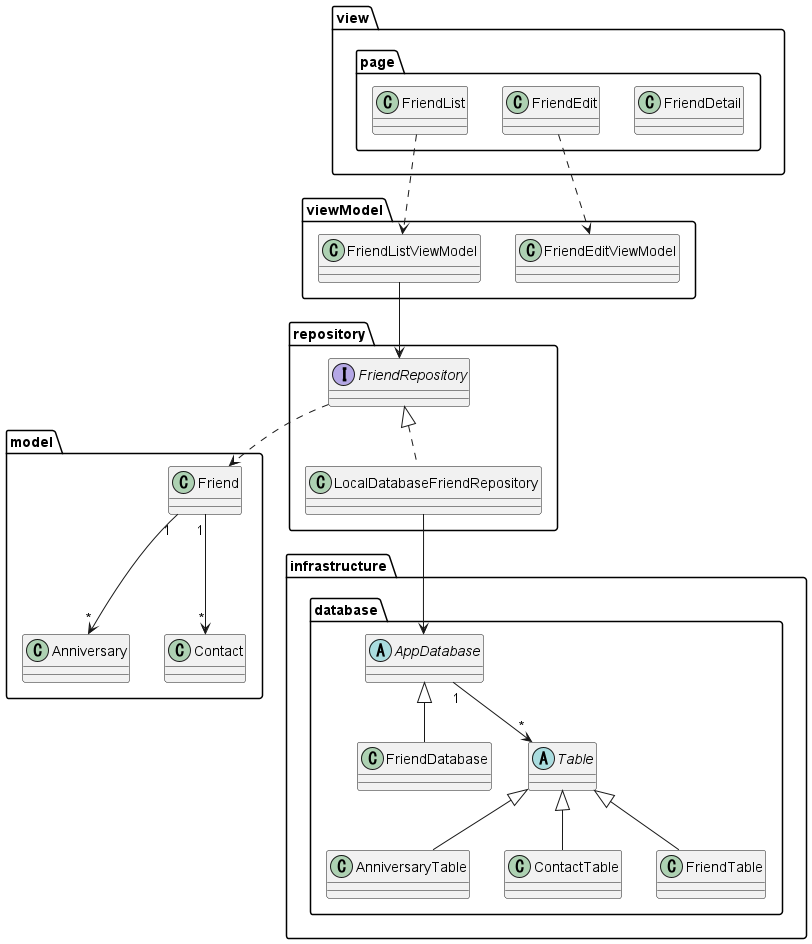
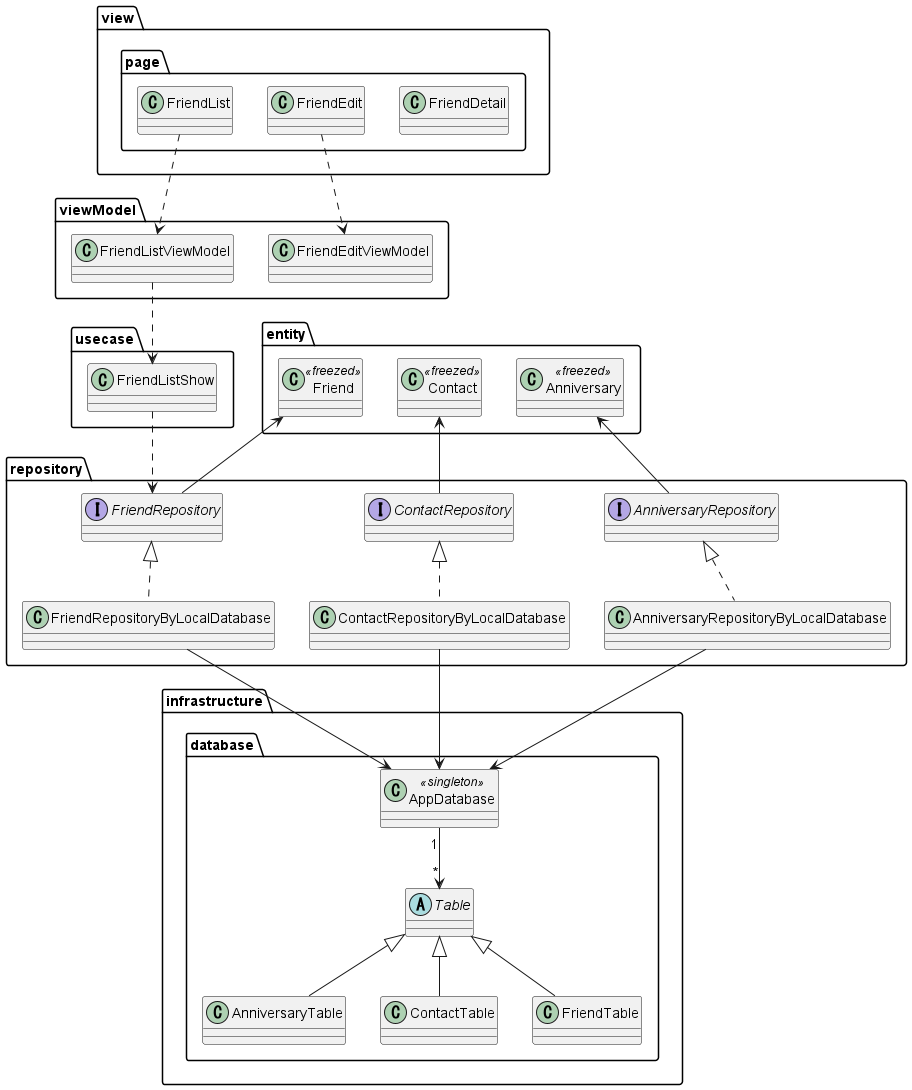
rename local database repository

Changed region(s): [[0.0, 0.0, 1.0, 1.0], [0.6158, 0.8294, 0.6466, 0.8602]]

diff --git a/lib/repository/friend_repository_by_local_database.dart b/lib/repository/friend_repository_by_local_database.dart
@@ -3,9 +3,7 @@ import 'package:friend_list/infrastructure/database/app_database.dart';
 import 'package:friend_list/entity/friend.dart';
 import 'package:friend_list/repository/friend_repository.dart';
 
-class LocalDatabaseFriendRepository implements FreindRepository {
-  LocalDatabaseFriendRepository();
-
+class FriendRepositoryByLocalDatbase implements FriendRepository {
   @override
   Future<void> deleteByID(int id) async {
     final db = await AppDatabase.instance.database;

diff --git a/lib/repository/anniversary_repository_by_local_database.dart b/lib/repository/anniversary_repository_by_local_database.dart
@@ -3,7 +3,7 @@ import 'package:friend_list/entity/anniversary.dart';
 import 'package:friend_list/infrastructure/database/app_database.dart';
 import 'package:friend_list/repository/anniversary_repository.dart';
 
-class LocalDatabaseAnniversaryRepository implements AnniversaryRepository {
+class AnniversaryRepositoryByLocalDatabase implements AnniversaryRepository {
   @override
   Future<void> deleteByID(int id) async {
     final db = await AppDatabase.instance.database;

diff --git a/lib/repository/contact_repository_by_local_database.dart b/lib/repository/contact_repository_by_local_database.dart
@@ -3,7 +3,7 @@ import 'package:friend_list/entity/contact.dart';
 import 'package:friend_list/infrastructure/database/app_database.dart';
 import 'package:friend_list/repository/contact_repository.dart';
 
-class LocalDatabaseContactRepository implements ContactRepository {
+class ContactRepositoryByLocalDatabase implements ContactRepository {
   @override
   Future<void> deleteByID(int id) async {
     final db = await AppDatabase.instance.database;

diff --git a/lib/repository/friend_repository.dart b/lib/repository/friend_repository.dart
@@ -1,6 +1,6 @@
 import 'package:friend_list/entity/friend.dart';
 
-abstract class FreindRepository {
+abstract class FriendRepository {
   Future<Friend> save(Friend friend);
   Future<Friend> findByID(int id);
   Future<void> deleteByID(int id);
